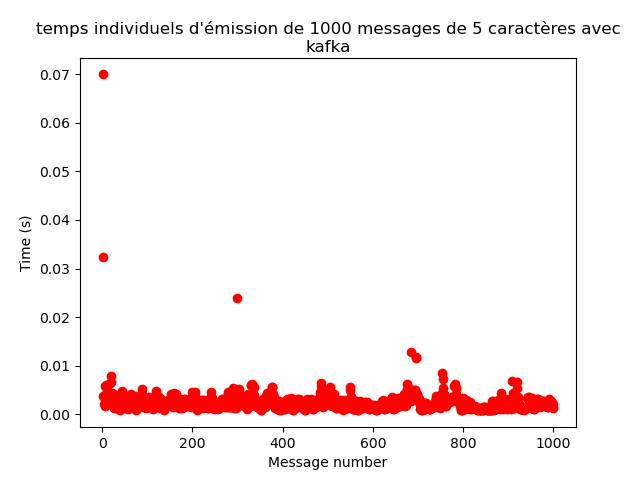
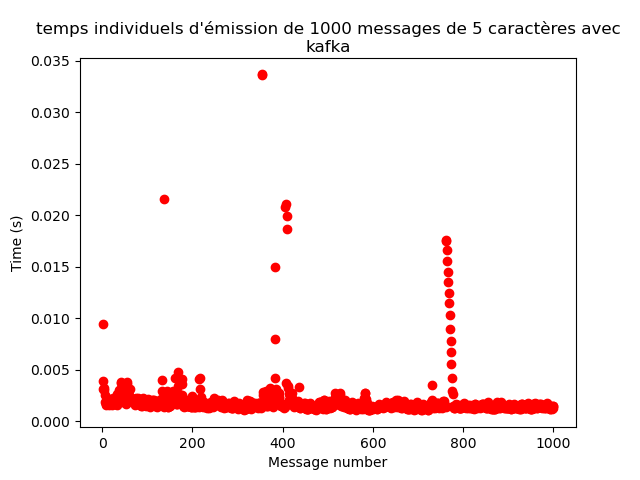
split+regex

diff --git a/message_receiver.py b/message_receiver.py
@@ -5,12 +5,13 @@ from statistics import mean
 
 
 class MessageReceiver:
-    def __init__(self, protocol_obj, bus, length):
+    def __init__(self, protocol_obj, bus, length, protocol):
         self.protocol_obj = protocol_obj
         self.bus = bus
         self.plt_data = []
         self.data=[]
         self.length = length
+        self.protocol = protocol
     
     
     def draw_graph(self, protocole, message_count):
@@ -28,23 +29,40 @@ class MessageReceiver:
         plt.close()  # Ferme la figure pour libérer les ressources
 
         
-    def receive_messages(self, message_count, queue):
+    def receive_messages(self, message_count, queue, flag):
         
         
             print("hey")
             self.data = self.protocol_obj.receive_message(message_count,queue)
+            self.protocol_obj.stopsocket()
             print(self.data)
-            start_time = float(self.data[0][1].split("=")[1])
-            
+
+            if(flag):
+                if self.protocol != "ivy":
+                    for i in range(message_count):
+                        start_time = float(self.data[0][1].split("#")[1])
+
+                        if self.data : 
+                            message, t0 = self.data[i][1].split("#")
+                            t0= float(t0)
+                            elements = message.split(" ")
+                            elements.pop()
+                            print(elements)
+                            contenus = [element.split("=")[1].strip() for element in elements]
+                            print(contenus)
+                    print("Temps total de communication : ", (time.time() - start_time))
+                else:
+                    print("Temps total de communication : ", (float(self.data[0][-2]) - float(self.data[0][-1])))
+
                     
 
-            print(len(self.plt_data))
-            for i in range(message_count):
-                
-                if self.data : 
-                    t0 = float(self.data[i][1].split("=")[1]) 
-                    time_interval = self.data[i][2] - t0
-                    self.plt_data.append(time_interval)
-            print("Temps total de communication : ", (self.data[-1][2] - start_time))
+            else: 
+                start_time = float(self.data[0][1].split("#")[1])
+                for i in range(message_count):
+                    if self.data : 
+                        t0 = float(self.data[i][1].split("#")[1]) 
+                        time_interval = self.data[i][2] - t0
+                        self.plt_data.append(time_interval)
+                print("Temps total de communication : ", (self.data[-1][2] - start_time))
 
-            self.draw_graph(self.bus, message_count) 
+                self.draw_graph(self.bus, message_count) 

diff --git a/main.py b/main.py
@@ -27,13 +27,16 @@ def main():
 
     parser = argparse.ArgumentParser(description='Envoi de messages entre 2 terminaux avec 3 middleware', add_help=True)
     parser.add_argument('--protocol', help='Protocole à utiliser (ivy, zeromq, kafka)')
-    parser.add_argument('--message_count', type=int, help='Nombre de messages à envoyer')
+    parser.add_argument('--message_count', default = 1, type=int, help='Nombre de messages à envoyer')
     parser.add_argument('--port', help='Port ou addresse (seulement pour ivy)')
     parser.add_argument('--length',default='3000', help='longueur du message à envoyer (3000 carac par défaut)')
     parser.add_argument('--log_level', default='INFO', help='Niveau de configuration de la journalisation')
     parser.add_argument('--sleep',default='0',type = float, help="Temps du sleep à mettre entre l'envoi de chaque message")
+    parser.add_argument('--flag', action='store_true', help="activer les flags pour simuler l'utilisation de regexp")
+    parser.add_argument('--flag_count', default = 1, type=int, help='Nombre de flags à envoyer')
 
     param = parser.parse_args()
+
 
     # Configurer la journalisation
     logging.basicConfig(
@@ -70,11 +73,13 @@ def main():
     queue = multiprocessing.Queue()
     logger.info('Démarrage du programme')
 
-    receive_process = multiprocessing.Process(target=main_receive, args=(param.protocol, param.message_count, param.port,param.length, queue, logger))
-    send_process = multiprocessing.Process(target=main_send, args=(param.protocol, param.message_count, param.port, param.length, queue, logger, param.sleep))
-    '''receive_process.start()
+    receive_process = multiprocessing.Process(target=main_receive, args=(param.protocol, param.message_count, param.port,param.length, queue, logger, param.flag))
+    send_process = multiprocessing.Process(target=main_send, args=(param.protocol, param.message_count, param.port, param.length, queue, logger, param.sleep, param.flag, param.flag_count))
+    
+    receive_process.start()
     #sleep(2)
     send_process.start()
+    '''
     receive_process2 = multiprocessing.Process(target=main_receive, args=(param.protocol, param.message_count, 3000,param.length, queue, logger))
     send_process2 = multiprocessing.Process(target=main_send, args=(param.protocol, param.message_count, 3000, param.length, queue, logger, param.sleep))
     

diff --git a/ivy_protocol.py b/ivy_protocol.py
@@ -19,6 +19,7 @@ class IvyProtocol(AbstractProtocol):
         self.plt_data = []
         self.wait = True
         self.logger = logger
+        self.pop_hello = True
         
     
     
@@ -91,13 +92,21 @@ class IvyProtocol(AbstractProtocol):
         self.plt_data.append(tmp)  
         self.id+=1
 
+    def onmsgproc2(self, agent, *larg):
+        t1= time.time()
+        self.msg = larg[self.id]
+        tmp = [self.id, larg[:20],t1, larg[-1]]
+        self.plt_data.append(tmp)
+        self.id+=1
+        self.pop_hello = False
+        
         
         
             
     def receive_message(self,message_count,queue):
         print("bind")
-        IvyBindMsg(self.onmsgproc, '(.*)')
-
+        #IvyBindMsg(self.onmsgproc, '(.*)')
+        IvyBindMsg(self.onmsgproc2, 'flag0=(\S*) flag1=(\S*) flag2=(\S*) flag3=(\S*) flag4=(\S*) flag5=(\S*) flag6=(\S*) flag7=(\S*) flag8=(\S*) flag9=(\S*) flag10=(\S*) flag11=(\S*) flag12=(\S*) flag13=(\S*) flag14=(\S*) flag15=(\S*) flag16=(\S*) flag17=(\S*) flag18=(\S*) flag19=(\S*) flag20=(\S*) flag21=(\S*) flag22=(\S*) flag23=(\S*) flag24=(\S*) flag25=(\S*) flag26=(\S*) flag27=(\S*) flag28=(\S*) flag29=(\S*) flag30=(\S*) flag31=(\S*) flag32=(\S*) flag33=(\S*) flag34=(\S*) flag35=(\S*) flag36=(\S*) flag37=(\S*) flag38=(\S*) flag39=(\S*) flag40=(\S*) flag41=(\S*) flag42=(\S*) flag43=(\S*) flag44=(\S*) flag45=(\S*) flag46=(\S*) flag47=(\S*) flag48=(\S*) flag49=(\S*) #(\S*)')
         queue.put("RECEIVER_READY")
 
         print(queue.get())
@@ -107,5 +116,9 @@ class IvyProtocol(AbstractProtocol):
             print(self.send_end)
 
         
-        self.plt_data.pop(0)
+        if self.pop_hello:
+            self.plt_data.pop(0)
         return self.plt_data
+    
+    def stopsocket(self):
+        IvyStop()

diff --git a/main_send.py b/main_send.py
@@ -15,7 +15,7 @@ from time import sleep
 
 
 
-def main_send(protocol, message_count, port,length, queue, logger, traitement):
+def main_send(protocol, message_count, port,length, queue, logger, traitement, flag, flag_count):
 
 
 
@@ -47,29 +47,29 @@ def main_send(protocol, message_count, port,length, queue, logger, traitement):
     if message == "RECEIVER_READY":
         sleep(2)
 
-        #calcul des résulat
         length_of_string = int(length)
-        message_rand = ''.join(random.choice(string.ascii_letters + string.digits) for _ in range(length_of_string))+"="
+        message_rand=""
+        if(flag):
+            for j in range(flag_count):
+                message_rand = message_rand+"flag"+str(j)+"="+''.join(random.choice(string.ascii_letters + string.digits) for _ in range(length_of_string))+" "
 
-        #if test_type == "total":
+            message_rand = message_rand+"#"
+        else:
+            message_rand = ''.join(random.choice(string.ascii_letters + string.digits) for _ in range(length_of_string))+"#"
 
 
 
-    #elif test_type == "graph":
         for i in range(message_count):
-            #print(i)
-
             start_time = time.time()
             message = str(message_rand) + str(start_time)
             #message = "hello =" + str(start_time)
+            print(message)
             protocol_obj.send_message(message)
             sleep(traitement)
-        #message = "last message =" + str(start_time)
-        #protocol_obj.send_message(message, "10002")
 
-            
-        #else :
 
-    
+        
         for i in range(100):
             queue.put("LAST_MESSAGE")
+        if protocol == "ivy":
+            protocol_obj.stopsocket()

diff --git a/zeromq.py b/zeromq.py
@@ -8,6 +8,7 @@ class ZeroMQProtocol(AbstractProtocol):
     def __init__(self, port, com, logger):
         self.port = port
         self.socket = None
+        self.context= None
         self.com = com
         self.plt_data = []
         self.id = 0
@@ -18,9 +19,9 @@ class ZeroMQProtocol(AbstractProtocol):
         self.logger = logger
 
     def initialize(self):
-        context = zmq.Context()
+        self.context = zmq.Context()
         if self.com == "PUB":
-            self.socket = context.socket(zmq.PUB)
+            self.socket = self.context.socket(zmq.PUB)
             self.socket.setsockopt(zmq.SNDHWM, 2000000)
             self.socket.bind("tcp://*:%s" % self.port)
             
@@ -28,7 +29,7 @@ class ZeroMQProtocol(AbstractProtocol):
             #sleep(3)
 
         else:
-            self.socket = context.socket(zmq.SUB)
+            self.socket = self.context.socket(zmq.SUB)
             self.socket.setsockopt(zmq.RCVHWM, 2000000) 
             self.socket.connect("tcp://localhost:%s" % self.port)
             
@@ -70,3 +71,12 @@ class ZeroMQProtocol(AbstractProtocol):
         
         return(self.plt_data)
 
+    def stopsocket(self):
+        try:
+            self.socket.close()
+
+        except:
+            pass # log or print any EXC-case here, as needed
+
+        finally:
+            self.context.term()

diff --git a/main_receive.py b/main_receive.py
@@ -12,7 +12,7 @@ from time import sleep
 
 
 
-def main_receive(protocol, message_count, port, length, queue, logger):
+def main_receive(protocol, message_count, port, length, queue, logger, flag):
     
     com = "sub"
     if protocol == 'ivy':
@@ -36,8 +36,8 @@ def main_receive(protocol, message_count, port, length, queue, logger):
     #envoie de message aà l'autre process pour signaler que le receveur est prêt
     queue.put("RECEIVER_READY")
 
-    receiver = MessageReceiver(protocol_obj, protocol,length)
-    receiver.receive_messages(message_count, queue)
+    receiver = MessageReceiver(protocol_obj, protocol,length, protocol)
+    receiver.receive_messages(message_count, queue, flag)
     
     '''sender = MessageSender(protocol_obj)
     sender.send_messages(message_count)'''

diff --git a/kafka_protocol.py b/kafka_protocol.py
@@ -62,3 +62,9 @@ class KafkaProtocol(AbstractProtocol):
         while(self.send_end != "LAST_MESSAGE"):
             self.send_end = queue.get()      
         return self.plt_data
+
+    def stopsocket(self):
+        if self.com == "PUB":
+            self.kafka_producer.close()
+        else: 
+            self.consumer.close()

diff --git a/abstract_protocol.py b/abstract_protocol.py
@@ -13,3 +13,6 @@ class AbstractProtocol(ABC):
     @abstractmethod
     def receive_message(self):
         pass 
+    
+    def stopsocket(self):
+        pass

diff --git a/reg.py b/reg.py
@@ -1,0 +1,5 @@
+
+msg = ""
+for i in range(50):
+    msg= msg+"flag"+str(i)+"=(\S*) "
+print(msg+" #(\S*)")
